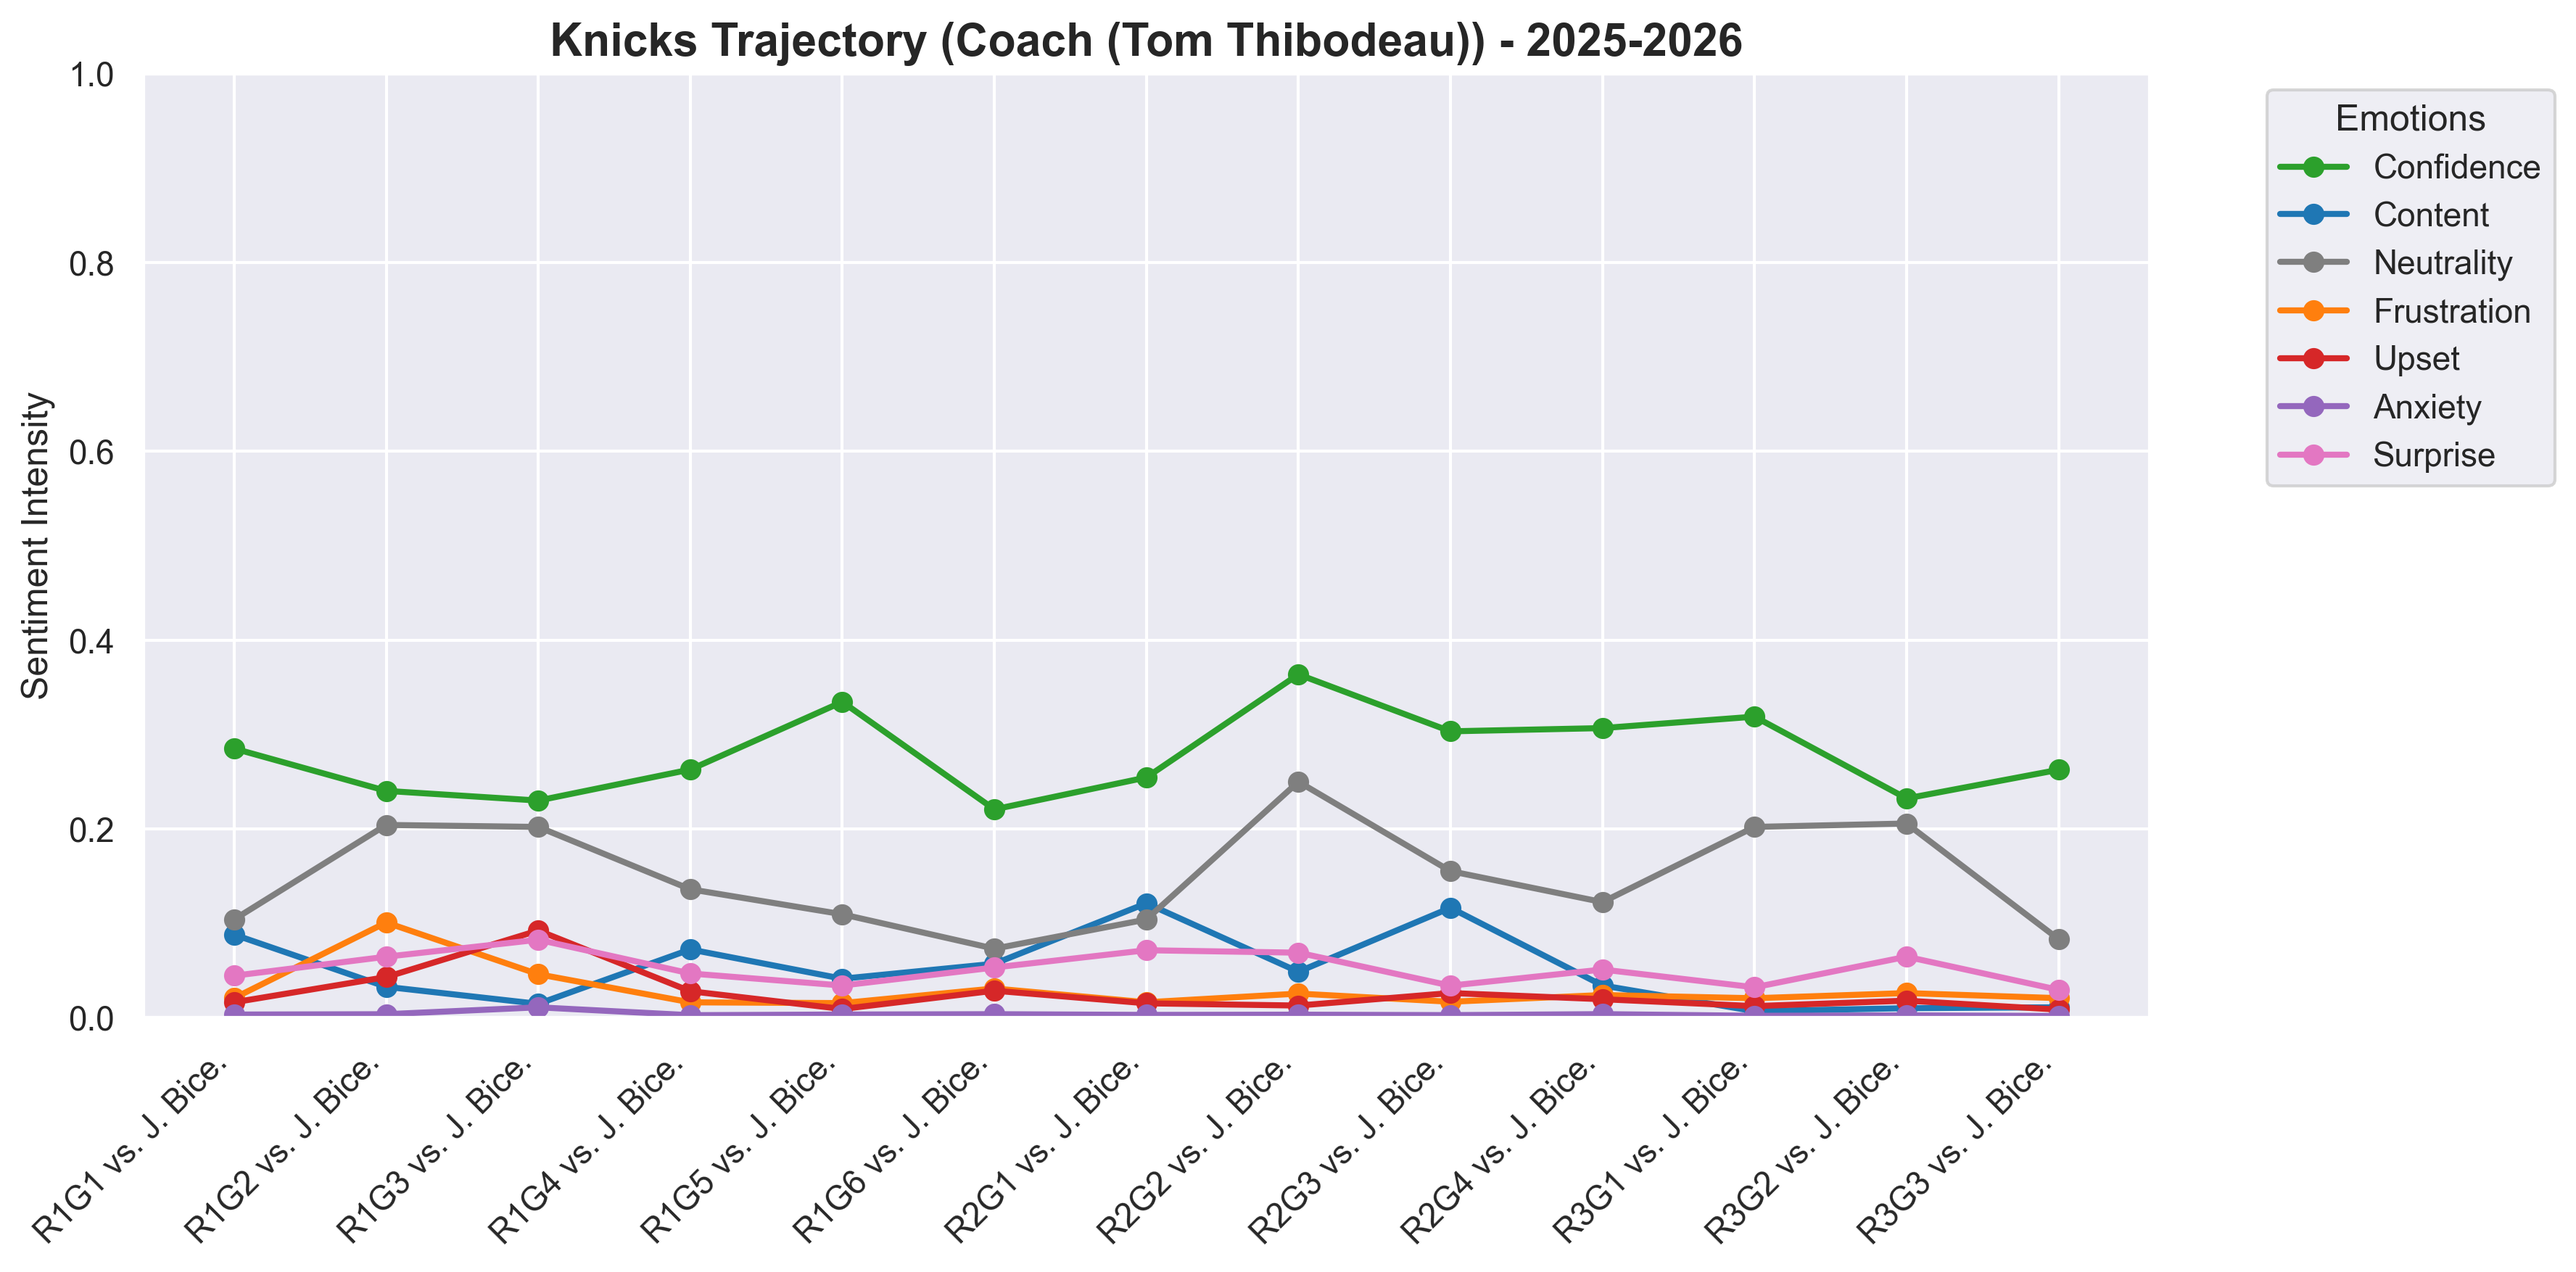
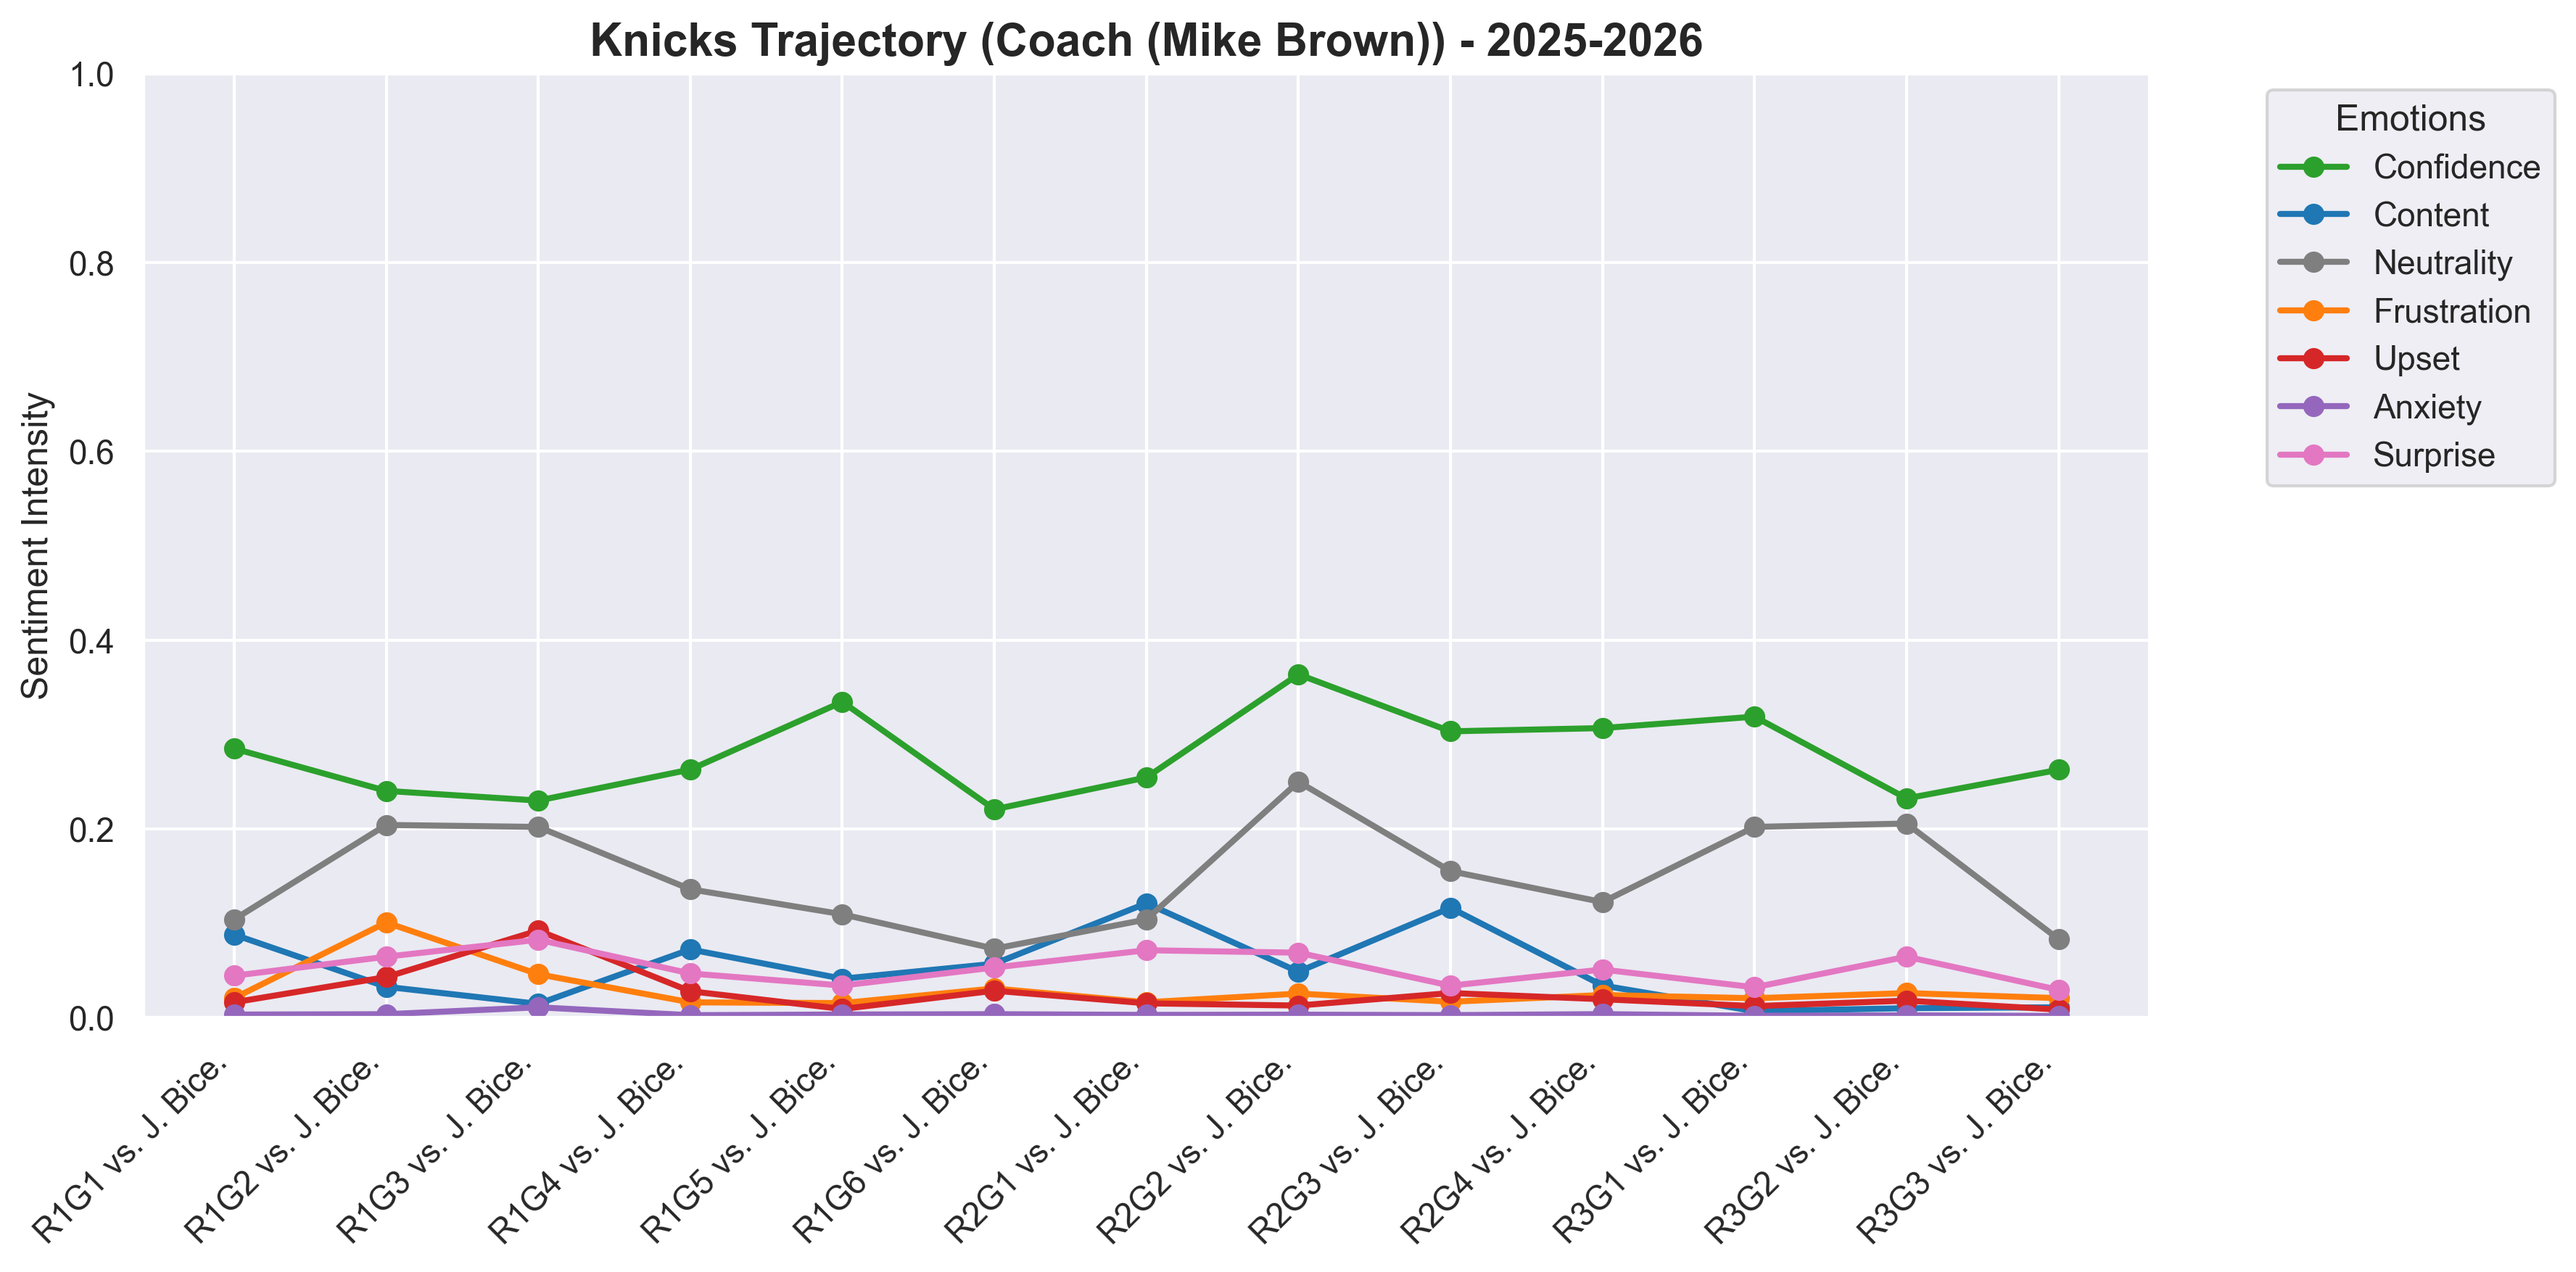
fix: implement relative tracking paths and update coach metadata graphics

Changed region(s): [[0.2188, 0.0, 0.6875, 0.0616]]

diff --git a/streamlit_app/pages/7_Finals_Matchup.py b/streamlit_app/pages/7_Finals_Matchup.py
@@ -164,7 +164,7 @@ st.markdown("### Deep Architectural Synthesis")
 if selected_model == "Full Baseline Model (All Eras)":
     synthesis_text = (
         f"Evaluating the aggregate profile across all historical eras shows a razor-thin statistical margin, reflected perfectly in the model's {spurs_prob} to {knicks_prob} Head-to-Head Probability Split. "
-        "Looking at the coaching matrix, Tom Thibodeau's intense accountability numbers match the focus thresholds required by legacy championship baselines. "
+        "Looking at the coaching matrix, Mike Brown's intense accountability numbers match the focus thresholds required by legacy championship baselines. "
         "While Jalen Brunson's star bar graph outpaces the field in raw contentment, the Spurs' legacy grit profile keeps the math incredibly tight. "
         "The teammate chart highlights that the Knicks' supporting roster carries intense confidence spikes that align mathematically with recent NBA Champions. "
         f"When you put all of these pieces together, the metrics reveal a grueling {games_count}-game war. "
@@ -173,7 +173,7 @@ if selected_model == "Full Baseline Model (All Eras)":
 else:
     synthesis_text = (
         f"Evaluating the targeted 2023-2025 modern profile shows New York holding a decisive advantage, reflected in the model's {knicks_prob} to {spurs_prob} Head-to-Head Probability Split favoring the Knicks. "
-        "Looking at the coaching matrix, Tom Thibodeau's modern accountability numbers perfectly match the execution thresholds of the last two championship teams. "
+        "Looking at the coaching matrix, Mike Brown's modern accountability numbers perfectly match the execution thresholds of the last two championship teams. "
         "Jalen Brunson's star bar graph completely outpaces the field in raw contentment and neutrality, emphasizing his ability to control game pace flawlessly. "
         "The teammate chart highlights that the Knicks' supporting roster carries far lower average anxiety readings than San Antonio's younger complementary rotations. "
         "When you put all of these pieces together, the metrics reveal a veteran squad completely optimized for current tactical structures. "

diff --git a/scripts/graph_live_2026.py b/scripts/graph_live_2026.py
@@ -1,16 +1,34 @@
 import pandas as pd
 import os
+import sys
 import logging
-from scripts.visualization import EmotionVisualizer
+
+# --- BULLETPROOF ROUTING CORRECTION ---
+# This guarantees that paths and imports resolve correctly whether run from root or inside /scripts
+CURRENT_DIR = os.path.dirname(os.path.abspath(__file__))
+if CURRENT_DIR not in sys.path:
+    sys.path.append(CURRENT_DIR)
+
+PROJECT_ROOT = os.path.dirname(CURRENT_DIR)
+if PROJECT_ROOT not in sys.path:
+    sys.path.append(PROJECT_ROOT)
+
+from visualization import EmotionVisualizer
 
 if (__name__ == "__main__"):
-    scored_path = "data/live_2026/scored_2025_2026.csv"
+    # Target the CSV relative to the absolute project root
+    scored_path = os.path.join(PROJECT_ROOT, "data", "live_2026", "scored_2025_2026.csv")
     
     if (os.path.exists(scored_path) == False):
         logging.error(f"⚠ Target metrics file missing at verified tree layout: {scored_path}")
     else:
         df = pd.read_csv(scored_path)
-        visualizer = EmotionVisualizer(primary_output_dir="./output", streamlit_asset_dir="./streamlit_app/assets")
+        
+        # Absolute pathing for output destinations to protect terminal context
+        output_dir = os.path.join(PROJECT_ROOT, "output")
+        asset_dir = os.path.join(PROJECT_ROOT, "streamlit_app", "assets")
+        
+        visualizer = EmotionVisualizer(primary_output_dir=output_dir, streamlit_asset_dir=asset_dir)
         
         playoff_df = df[~df['stage'].str.startswith("Reg Season")]
         reg_season_df = df[df['stage'].str.startswith("Reg Season")]

diff --git a/streamlit_app/pages/6_2026_Finals_Predictor.py b/streamlit_app/pages/6_2026_Finals_Predictor.py
@@ -223,7 +223,7 @@ elif (selected_track == "Eastern Conference Champion"):
         "The moment the playoffs kicked off, the team aggregate completely locked in and stabilized around an intense, focused baseline. "
         "Jalen Brunson operated at an absolute superstar level of composure, filtering out the media noise and pacing the offense perfectly. "
         "The supporting teammates fed directly off that energy, showing an unbelievable level of defensive grit and alignment. "
-        "Thibs still had his classic intense podium moments, but his baseline metrics shifted from pure frustration to controlled confidence."
+        "Mike Brown still had his classic intense podium moments, but his baseline metrics shifted from pure frustration to controlled confidence."
     )
 
     st.markdown("---")

diff --git a/streamlit_app/pages/8_Prediction_Validation.py b/streamlit_app/pages/8_Prediction_Validation.py
@@ -102,7 +102,7 @@ st.write(
     "vulnerability our model detected in their supporting layers weeks prior."
 )
 st.write(
-    "Conversely, Tom Thibodeau's pre-series metrics showed an elite, champion-level accountability profile. That translated directly "
+    "Conversely, Mike Brown's pre-series metrics showed an elite, champion-level accountability profile. That translated directly "
     "to the court when he remained composed and was highly tactical with his deployment of Karl-Anthony Towns to slow down the Spurs' "
     "frontcourt. Meanwhile, the Knicks' veteran roster absorbed the pressure entirely. OG Anunoby delivered a series-defining block, "
     "and Jalen Brunson stuck strictly to his mechanical, unbothered execution to drop 45 points in the Game 5 closeout. The Knicks "

diff --git a/scripts/visualization.py b/scripts/visualization.py
@@ -156,7 +156,7 @@ class EmotionVisualizer:
                 role_display = "Teammates"
             elif (role == "coach"):
                 if (team_name == "Spurs"): role_display = "Coach (Mitch Johnson)"
-                elif (team_name == "Knicks"): role_display = "Coach (Tom Thibodeau)"
+                elif (team_name == "Knicks"): role_display = "Coach (Mike Brown)"
                 elif (team_name == "Thunder"): role_display = "Coach (Mark Daigneault)"
                 elif (team_name == "Cavaliers"): role_display = "Coach (Kenny Atkinson)"
                 elif (team_name == "Celtics"): role_display = "Coach (Joe Mazzulla)"
